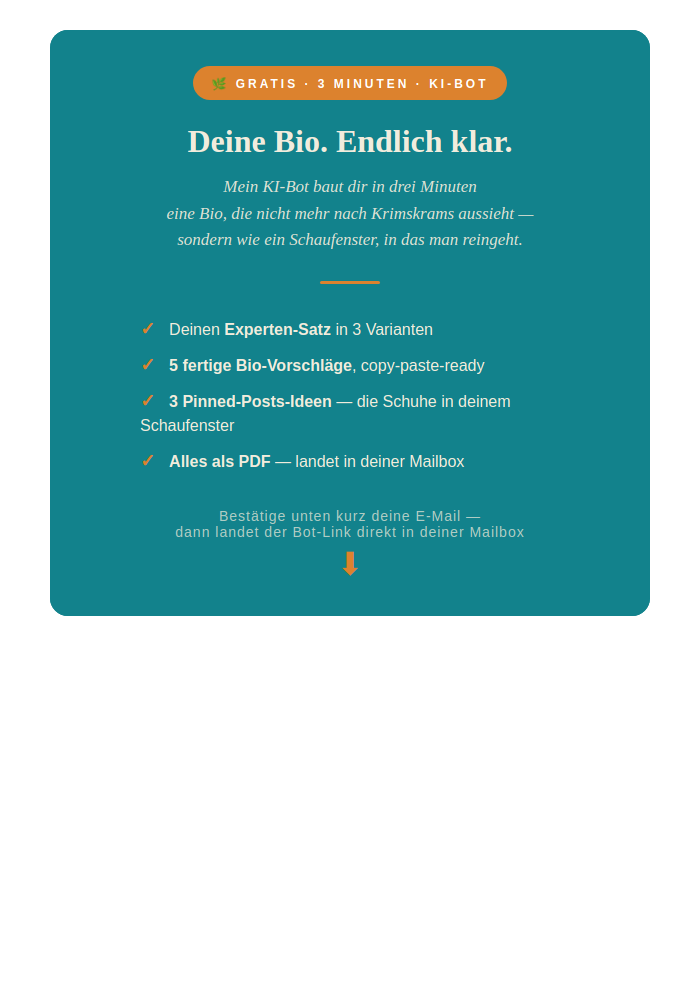
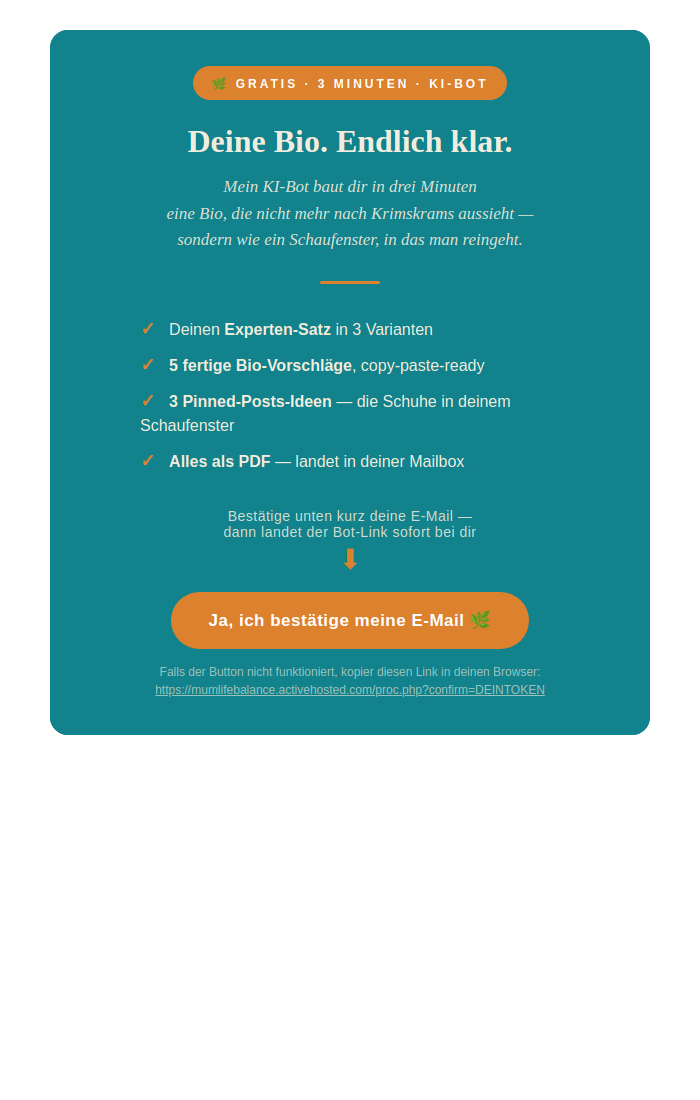
DOI-Mail Block: Bestätigungs-Button mit AC-CONFIRMLINK integriert
Patricia-Bedarf: Der Bestätigungs-Link muss IM Brand-Block sein,
nicht als separater AC-Button drunter. Damit alles aus einem Guss.

Änderung im Mail-Block:
— Pfeil ⬇ bleibt
— Neuer Orange-Pill-Button "Ja, ich bestätige meine E-Mail 🌿"
  mit href="%CONFIRMLINK%" (AC-Personalization-Tag)
— Plus Fallback-Link in kleinerer Schrift, falls Button nicht klickbar
— %CONFIRMLINK% wird beim Versand von AC durch den persönlichen
  Confirm-Link des Subscribers ersetzt

Patricia kann jetzt in AC den ganzen alten Block + AC-Standard-Button
löschen, nur diesen Block einfügen. Komplett aus einem Guss.

https://claude.ai/code/session_018Fxfdu9cA1MRxFuJkjYyja

Changed region(s): [[0.06, 0.062, 0.93, 0.682]]

diff --git a/outputs/bio-check-bot/optin-intro-mail.html b/outputs/bio-check-bot/optin-intro-mail.html
@@ -1,13 +1,20 @@
 <!--
-  Bio-Check Opt-In Intro · MAIL-VERSION
+  Bio-Check Opt-In Intro · MAIL-VERSION mit AC-CONFIRMLINK
   ============================================================
-  ⚠ NICHT verwechseln mit optin-intro.html (das ist für Webpages).
-  Diese Version ist für E-Mails: Tables + Solid-Color + Inline-Styles.
+  Verwendung: In der DOI-Bestätigungs-Mail von AC.
+  AC ersetzt %CONFIRMLINK% beim Versand mit dem persönlichen
+  Bestätigungs-Link des Subscribers.
 
-  Verwendung: Wenn der Block in einer AC-Mail eingefügt werden soll
-  (z.B. DOI-Confirmation-Mail oder Auslieferungs-Mail).
+  ⚠ Falls dein AC einen anderen Tag-Namen nutzt:
+     Andere Schreibweisen können sein:
+     - %CONFIRMLINK%
+     - %CONFIRM_LINK%
+     - %CONFIRM%
+     - {{ confirm_link }}
+     Im AC-Editor unter „Personalize" / „Personalisieren" findest du
+     den richtigen Tag (oben rechts in der Mail-Bearbeitung).
 
-  Mail-Client-getestet: Gmail, Outlook, Apple Mail, AC-Editor.
+  Tables + Solid-Color + Inline-Styles für Mail-Client-Kompat.
 -->
 
 <table role="presentation" cellpadding="0" cellspacing="0" border="0" width="100%" style="max-width:600px;margin:0 auto;background-color:#12828c;border-radius:18px;">
@@ -80,14 +87,35 @@
         </tr>
       </table>
 
-      <!-- Trust-Footer -->
-      <p style="font-family:Arial,sans-serif;font-size:14px;color:#f1ecdd;opacity:0.7;margin:0 0 6px 0;letter-spacing:1px;">
+      <!-- Trust-Text vor Button -->
+      <p style="font-family:Arial,sans-serif;font-size:14px;color:#f1ecdd;opacity:0.85;margin:0 0 6px 0;letter-spacing:0.5px;">
         Bestätige unten kurz deine E-Mail —<br>
-        dann landet der Bot-Link direkt in deiner Mailbox
+        dann landet der Bot-Link sofort bei dir
       </p>
 
-      <!-- Pfeil zum Bestätigungs-Button -->
-      <p style="font-size:32px;color:#dc822e;margin:8px 0 0 0;line-height:1;">⬇</p>
+      <!-- Pfeil -->
+      <p style="font-size:28px;color:#dc822e;margin:6px 0 18px 0;line-height:1;">⬇</p>
+
+      <!-- ============================================================
+           BESTÄTIGUNGS-BUTTON mit AC-CONFIRMLINK-Tag
+           %CONFIRMLINK% wird beim Versand automatisch durch den
+           persönlichen Bestätigungs-Link des Subscribers ersetzt.
+           ============================================================ -->
+      <table role="presentation" cellpadding="0" cellspacing="0" border="0" align="center" style="margin:0 auto 14px;">
+        <tr>
+          <td bgcolor="#dc822e" style="background-color:#dc822e;border-radius:50px;padding:0;">
+            <a href="%CONFIRMLINK%" target="_blank" style="display:inline-block;font-family:Arial,sans-serif;font-size:17px;font-weight:bold;color:#ffffff;text-decoration:none;letter-spacing:0.5px;padding:18px 38px;border-radius:50px;">
+              Ja, ich bestätige meine E-Mail 🌿
+            </a>
+          </td>
+        </tr>
+      </table>
+
+      <!-- Falls der Button nicht klickbar -->
+      <p style="font-family:Arial,sans-serif;font-size:12px;color:#f1ecdd;opacity:0.6;margin:8px 0 0 0;line-height:1.5;">
+        Falls der Button nicht funktioniert, kopier diesen Link in deinen Browser:<br>
+        <a href="%CONFIRMLINK%" style="color:#f1ecdd;text-decoration:underline;word-break:break-all;">%CONFIRMLINK%</a>
+      </p>
 
     </td>
   </tr>
